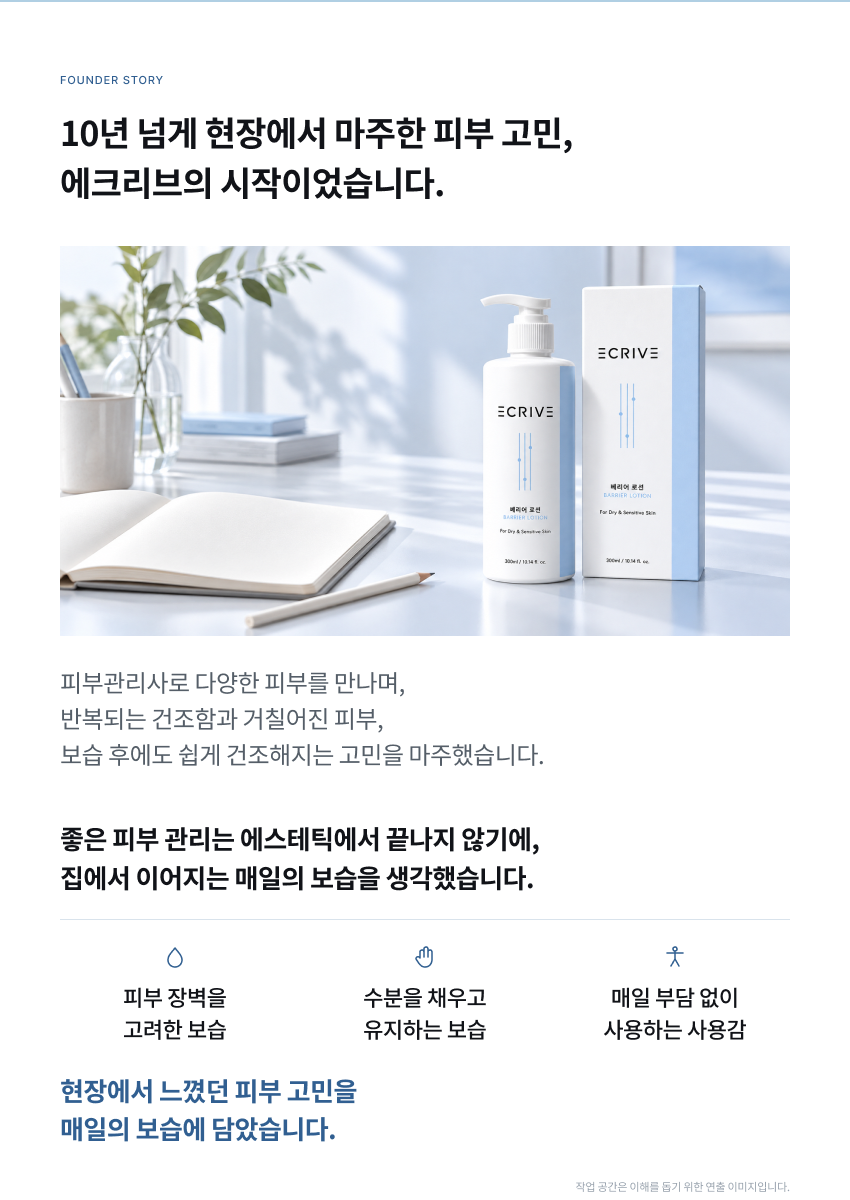
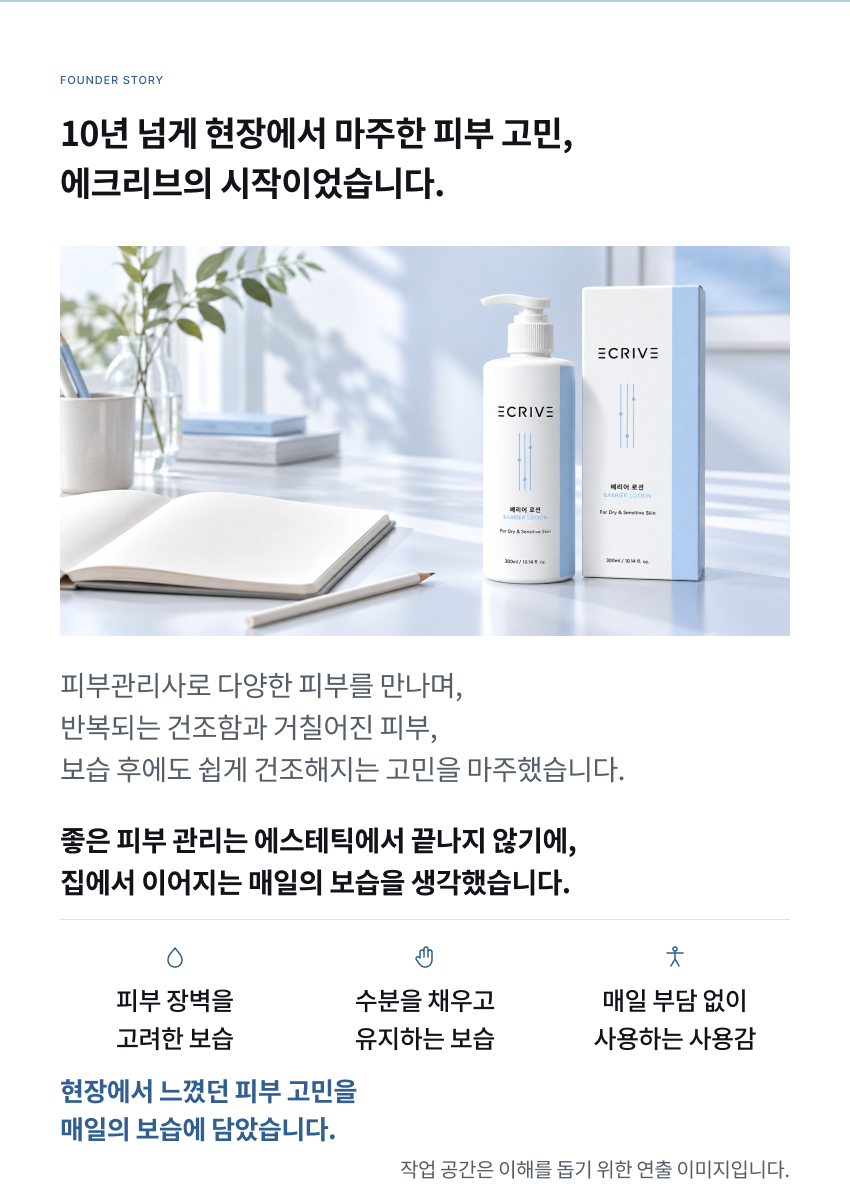
Polish ECRIVE detail pages and align mobile reading layout

diff --git a/resole-lotion-demo/index.html b/resole-lotion-demo/index.html
@@ -36,7 +36,7 @@
               <a href="product/radiance-body-mist.html" class="hero-link"><img src="assets/body-mist/shop/BANNER.png" alt="리솔90 레디언스 바디미스트 런칭 기념 배너" /></a>
             </article>
             <article class="hero-slide" data-slide aria-label="3 / 3">
-              <a href="product/barrier-lotion.html" class="hero-link"><img src="../banner/main-banner.png" alt="RESOLE 배리어 로션 메인 배너" /></a>
+              <a href="product/barrier-lotion.html" class="hero-link"><img src="../banner/main-banner.png" alt="RESOLE 베리어 로션 메인 배너" /></a>
             </article>
           </div>
         </div>
@@ -45,7 +45,7 @@
         <div class="carousel-dots" aria-label="배너 선택">
           <button type="button" class="active" data-slide-to="0" aria-label="크림 미스트 배너 보기" aria-current="true"></button>
           <button type="button" data-slide-to="1" aria-label="바디미스트 배너 보기"></button>
-          <button type="button" data-slide-to="2" aria-label="배리어 로션 배너 보기"></button>
+          <button type="button" data-slide-to="2" aria-label="베리어 로션 배너 보기"></button>
         </div>
       </div>
     </section>
@@ -54,8 +54,8 @@
       <div class="store-section-head"><div><p class="section-kicker">NEW ARRIVAL</p><h2>새롭게 만나는 RESOLE</h2></div><a href="#all">전체보기 <span>→</span></a></div>
       <div class="product-rail" aria-label="신상품 목록">
         <article class="product-card">
-          <a href="product/ecrive-barrier-lotion.html?v=20261022-r1" class="product-image-wrap"><span class="card-badge mist">NEW</span><img src="assets/ecrive-barrier-lotion/shop/01-copy-launch.jpg?v=20260928-r1" alt="ECRIVE 배리어 로션 300 mL" /></a>
-          <div class="product-card-body"><p class="product-brand">ECRIVE</p><a href="product/ecrive-barrier-lotion.html?v=20261022-r1" class="product-name">배리어 로션 300 mL</a><div class="product-price"><strong>34,900원</strong><del>39,000원</del></div><p class="product-meta">바르고 또 발라도, 반복되는 건조함을 위한 보습</p></div>
+          <a href="product/ecrive-barrier-lotion.html?v=20261022-r2" class="product-image-wrap"><span class="card-badge mist">NEW</span><img src="assets/ecrive-barrier-lotion/shop/01-copy-launch.jpg?v=20260928-r1" alt="ECRIVE 베리어 로션 300 mL" /></a>
+          <div class="product-card-body"><p class="product-brand">ECRIVE</p><a href="product/ecrive-barrier-lotion.html?v=20261022-r2" class="product-name">베리어 로션 300 mL</a><div class="product-price"><strong>34,900원</strong><del>39,000원</del></div><p class="product-meta">바르고 또 발라도, 반복되는 건조함을 위한 보습</p></div>
         </article>
         <article class="product-card">
           <a href="product/goyobam.html?v=20260908-r10" class="product-image-wrap"><span class="card-badge mist">NEW</span><img src="assets/goyobam/shop/thumb01.png?v=20260827-r1" alt="ROOTEDIT GOYOBAM 고요밤 150 ml" /></a>
@@ -70,8 +70,8 @@
           <div class="product-card-body"><p class="product-brand">RESOLE90</p><a href="product/radiance-body-mist.html" class="product-name">레디언스 바디미스트 100 mL</a><div class="product-availability"><strong>런칭 기념</strong><span>한정 혜택</span></div><p class="product-meta">건조함이 느껴지는 순간, 산뜻하게</p></div>
         </article>
         <article class="product-card">
-          <a href="product/barrier-lotion.html" class="product-image-wrap"><span class="card-badge">NEW</span><img src="../thumbs/thum01_00001_.png" alt="RESOLE 배리어 로션 300 mL" /></a>
-          <div class="product-card-body"><p class="product-brand">RESOLE</p><a href="product/barrier-lotion.html" class="product-name">배리어 로션 300 mL</a><div class="product-price"><strong>21,900원</strong><span>31%</span><del>31,900원</del></div><p class="product-meta">얼굴부터 건조한 곳까지 충분히</p></div>
+          <a href="product/barrier-lotion.html" class="product-image-wrap"><span class="card-badge">NEW</span><img src="../thumbs/thum01_00001_.png" alt="RESOLE 베리어 로션 300 mL" /></a>
+          <div class="product-card-body"><p class="product-brand">RESOLE</p><a href="product/barrier-lotion.html" class="product-name">베리어 로션 300 mL</a><div class="product-price"><strong>21,900원</strong><span>31%</span><del>31,900원</del></div><p class="product-meta">얼굴부터 건조한 곳까지 충분히</p></div>
         </article>
       </div>
     </section>
@@ -80,17 +80,17 @@
 
     <section id="best" class="store-section store-shell">
       <div class="store-section-head"><div><p class="section-kicker">BEST</p><h2>지금 가장 주목받는 제품</h2></div></div>
-      <div class="product-rail"><article class="product-card"><a href="product/barrier-lotion.html" class="product-image-wrap"><span class="card-badge soft">BEST</span><img src="../thumbs/thum02_00001_.png" alt="RESOLE 배리어 로션 300 mL" /></a><div class="product-card-body"><p class="product-brand">RESOLE</p><a href="product/barrier-lotion.html" class="product-name">배리어 로션 300 mL</a><div class="product-price"><strong>21,900원</strong><span>31%</span><del>31,900원</del></div></div></article></div>
+      <div class="product-rail"><article class="product-card"><a href="product/barrier-lotion.html" class="product-image-wrap"><span class="card-badge soft">BEST</span><img src="../thumbs/thum02_00001_.png" alt="RESOLE 베리어 로션 300 mL" /></a><div class="product-card-body"><p class="product-brand">RESOLE</p><a href="product/barrier-lotion.html" class="product-name">베리어 로션 300 mL</a><div class="product-price"><strong>21,900원</strong><span>31%</span><del>31,900원</del></div></div></article></div>
     </section>
 
     <section id="all" class="store-section store-shell compact-bottom">
       <div class="store-section-head"><div><p class="section-kicker">ALL PRODUCTS</p><h2>전체 상품</h2></div></div>
       <div class="all-product-grid">
-        <article class="product-card"><a href="product/ecrive-barrier-lotion.html?v=20261022-r1" class="product-image-wrap"><img src="assets/ecrive-barrier-lotion/shop/06-image-main.jpg?v=20260928-r1" alt="ECRIVE 배리어 로션 300 mL" /></a><div class="product-card-body"><p class="product-brand">ECRIVE</p><a href="product/ecrive-barrier-lotion.html?v=20261022-r1" class="product-name">배리어 로션 300 mL</a><div class="product-price"><strong>34,900원</strong><del>39,000원</del></div></div></article>
+        <article class="product-card"><a href="product/ecrive-barrier-lotion.html?v=20261022-r2" class="product-image-wrap"><img src="assets/ecrive-barrier-lotion/shop/06-image-main.jpg?v=20260928-r1" alt="ECRIVE 베리어 로션 300 mL" /></a><div class="product-card-body"><p class="product-brand">ECRIVE</p><a href="product/ecrive-barrier-lotion.html?v=20261022-r2" class="product-name">베리어 로션 300 mL</a><div class="product-price"><strong>34,900원</strong><del>39,000원</del></div></div></article>
         <article class="product-card"><a href="product/goyobam.html?v=20260908-r10" class="product-image-wrap"><img src="assets/goyobam/shop/thumb06.png?v=20260827-r1" alt="ROOTEDIT GOYOBAM 고요밤 150 ml" /></a><div class="product-card-body"><p class="product-brand">ROOTEDIT</p><a href="product/goyobam.html?v=20260908-r10" class="product-name">GOYOBAM 고요밤 150 ml</a><div class="product-availability"><strong>PORTFOLIO</strong><span>상세 보기</span></div></div></article>
         <article class="product-card"><a href="product/cream-mist.html" class="product-image-wrap"><img src="assets/cream-mist/shop/thumb05.jpg" alt="RESOLE 크림 미스트 80 mL" /></a><div class="product-card-body"><p class="product-brand">RESOLE</p><a href="product/cream-mist.html" class="product-name">크림 미스트 80 mL</a><div class="product-price"><strong>23,000원</strong><span>30%</span></div></div></article>
         <article class="product-card"><a href="product/radiance-body-mist.html" class="product-image-wrap"><img src="assets/body-mist/shop/S-06_thumb.png" alt="리솔90 레디언스 바디미스트 100 mL" /></a><div class="product-card-body"><p class="product-brand">RESOLE90</p><a href="product/radiance-body-mist.html" class="product-name">레디언스 바디미스트 100 mL</a><div class="product-availability"><strong>런칭 기념</strong><span>혜택 확인</span></div></div></article>
-        <article class="product-card"><a href="product/barrier-lotion.html" class="product-image-wrap"><img src="../thumbs/thum03_00001_.png" alt="RESOLE 배리어 로션 300 mL" /></a><div class="product-card-body"><p class="product-brand">RESOLE</p><a href="product/barrier-lotion.html" class="product-name">배리어 로션 300 mL</a><div class="product-price"><strong>21,900원</strong><span>31%</span><del>31,900원</del></div></div></article>
+        <article class="product-card"><a href="product/barrier-lotion.html" class="product-image-wrap"><img src="../thumbs/thum03_00001_.png" alt="RESOLE 베리어 로션 300 mL" /></a><div class="product-card-body"><p class="product-brand">RESOLE</p><a href="product/barrier-lotion.html" class="product-name">베리어 로션 300 mL</a><div class="product-price"><strong>21,900원</strong><span>31%</span><del>31,900원</del></div></div></article>
       </div>
     </section>
   </main>

diff --git a/resole-lotion-demo/product/ecrive-barrier-lotion.html b/resole-lotion-demo/product/ecrive-barrier-lotion.html
@@ -3,8 +3,8 @@
 <head>
   <meta charset="UTF-8" />
   <meta name="viewport" content="width=device-width, initial-scale=1.0" />
-  <title>ECRIVE | 배리어 로션 300 mL</title>
-  <meta name="description" content="ECRIVE 배리어 로션 300 mL 포트폴리오 상세페이지" />
+  <title>ECRIVE | 베리어 로션 300 mL</title>
+  <meta name="description" content="ECRIVE 베리어 로션 300 mL 포트폴리오 상세페이지" />
   <link rel="preconnect" href="https://fonts.googleapis.com">
   <link rel="preconnect" href="https://fonts.gstatic.com" crossorigin>
   <link href="https://fonts.googleapis.com/css2?family=Noto+Sans+KR:wght@400;500;600;700;800&display=swap" rel="stylesheet">
@@ -29,10 +29,10 @@
   <div class="notice-bar">RESOLE DESIGN · PORTFOLIO DEMO</div>
   <header class="store-header"><div class="store-shell header-row"><a class="store-logo" href="../">RESOLE</a><nav class="store-nav"><a href="../#new">NEW</a><a href="../#best">BEST</a><a href="../#all">ALL</a><a href="../#about">ABOUT</a></nav><div class="header-actions"><button type="button" aria-label="검색">⌕</button><button type="button" aria-label="포트폴리오">VIEW</button></div></div></header>
   <main>
-    <div class="breadcrumb store-shell"><a href="../">HOME</a><span>/</span><span>ECRIVE 배리어 로션 300 mL</span></div>
+    <div class="breadcrumb store-shell"><a href="../">HOME</a><span>/</span><span>ECRIVE 베리어 로션 300 mL</span></div>
     <section class="product store-shell">
       <div class="gallery-panel">
-        <div class="gallery-main"><img id="mainImage" src="../assets/ecrive-barrier-lotion/shop/01-copy-launch.jpg?v=20260928-r1" alt="ECRIVE 배리어 로션 런칭 이미지" /></div>
+        <div class="gallery-main"><img id="mainImage" src="../assets/ecrive-barrier-lotion/shop/01-copy-launch.jpg?v=20260928-r1" alt="ECRIVE 베리어 로션 런칭 이미지" /></div>
         <div class="thumb-strip" id="thumbStrip" aria-label="제품 이미지 선택">
           <button class="thumb active" type="button" data-image="../assets/ecrive-barrier-lotion/shop/01-copy-launch.jpg?v=20260928-r1"><img src="../assets/ecrive-barrier-lotion/shop/01-copy-launch.jpg?v=20260928-r1" alt="ECRIVE 제품 이미지 1"></button>
           <button class="thumb" type="button" data-image="../assets/ecrive-barrier-lotion/shop/02-copy-facebody.jpg?v=20260928-r1"><img src="../assets/ecrive-barrier-lotion/shop/02-copy-facebody.jpg?v=20260928-r1" alt="ECRIVE 제품 이미지 2"></button>
@@ -53,7 +53,7 @@
       </div>
       <aside class="purchase-panel">
         <p class="eyebrow">ECRIVE · BARRIER CARE</p>
-        <h1>배리어 로션 300 mL</h1>
+        <h1>베리어 로션 300 mL</h1>
         <p class="sub-title">For Dry &amp; Sensitive Skin</p>
         <div class="rating-row"><span>FACE &amp; BODY</span></div>
         <div class="price-box"><div class="event-chip">런칭 이벤트</div><div class="price-line"><span class="sale-price">34,900원</span></div><del class="origin">39,000원</del></div>
@@ -64,22 +64,22 @@
     </section>
     <nav class="detail-tabs store-shell"><a class="active" href="#detail">상세페이지</a><a href="#info">프로젝트 정보</a><a href="#faq">안내</a></nav>
     <section id="detail" class="detail ecrive-detail"><div class="detail-stack">
-<img class="detail-image" src="../assets/ecrive-barrier-lotion/detail/p01.png?v=20261022-r1" alt="ECRIVE 상세페이지 1" width="850" height="1200" loading="lazy" />
-<img class="detail-image" src="../assets/ecrive-barrier-lotion/detail/p02.png?v=20261022-r1" alt="ECRIVE 상세페이지 2" width="850" height="1200" loading="lazy" />
-<img class="detail-image" src="../assets/ecrive-barrier-lotion/detail/p03.png?v=20261022-r1" alt="ECRIVE 상세페이지 3" width="850" height="1450" loading="lazy" />
-<img class="detail-image" src="../assets/ecrive-barrier-lotion/detail/p04.png?v=20261022-r1" alt="ECRIVE 상세페이지 4" width="850" height="1200" loading="lazy" />
-<img class="detail-image" src="../assets/ecrive-barrier-lotion/detail/p05.png?v=20261022-r1" alt="ECRIVE 상세페이지 5" width="850" height="1200" loading="lazy" />
-<img class="detail-image" src="../assets/ecrive-barrier-lotion/detail/p06.png?v=20261022-r1" alt="ECRIVE 상세페이지 6" width="850" height="1950" loading="lazy" />
-<img class="detail-image" src="../assets/ecrive-barrier-lotion/detail/p07.png?v=20261022-r1" alt="ECRIVE 상세페이지 7" width="850" height="1200" loading="lazy" />
-<div class="ecrive-motion"><img class="detail-image" src="../assets/ecrive-barrier-lotion/detail/p08.png?v=20261022-r1" alt="ECRIVE 상세페이지 8" width="850" height="1200" loading="lazy" />
+<img class="detail-image" src="../assets/ecrive-barrier-lotion/detail/p01.png?v=20261022-r2" alt="ECRIVE 상세페이지 1" width="850" height="1200" loading="lazy" />
+<img class="detail-image" src="../assets/ecrive-barrier-lotion/detail/p02.png?v=20261022-r2" alt="ECRIVE 상세페이지 2" width="850" height="1200" loading="lazy" />
+<img class="detail-image" src="../assets/ecrive-barrier-lotion/detail/p03.png?v=20261022-r2" alt="ECRIVE 상세페이지 3" width="850" height="1450" loading="lazy" />
+<img class="detail-image" src="../assets/ecrive-barrier-lotion/detail/p04.png?v=20261022-r2" alt="ECRIVE 상세페이지 4" width="850" height="1200" loading="lazy" />
+<img class="detail-image" src="../assets/ecrive-barrier-lotion/detail/p05.png?v=20261022-r2" alt="ECRIVE 상세페이지 5" width="850" height="1200" loading="lazy" />
+<img class="detail-image" src="../assets/ecrive-barrier-lotion/detail/p06.png?v=20261022-r2" alt="ECRIVE 상세페이지 6" width="850" height="2010" loading="lazy" />
+<img class="detail-image" src="../assets/ecrive-barrier-lotion/detail/p07.png?v=20261022-r2" alt="ECRIVE 상세페이지 7" width="850" height="1200" loading="lazy" />
+<div class="ecrive-motion"><img class="detail-image" src="../assets/ecrive-barrier-lotion/detail/p08.png?v=20261022-r2" alt="ECRIVE 상세페이지 8" width="850" height="1200" loading="lazy" />
 <div class="motion-tile" style="left:7.05882353%;top:20.91666667%;width:42.00000000%;height:20.83333333%"><video autoplay loop muted playsinline controls preload="metadata" aria-label="01 PUMP 로션 사용 영상"><source src="../assets/ecrive-barrier-lotion/video/01pump.mp4?v=20260930-r1" type="video/mp4"></video><span class="motion-label">01 PUMP</span></div>
 <div class="motion-tile" style="left:50.94117647%;top:20.91666667%;width:42.00000000%;height:20.83333333%"><video autoplay loop muted playsinline controls preload="metadata" aria-label="02 ARM 로션 사용 영상"><source src="../assets/ecrive-barrier-lotion/video/02arm.mp4?v=20260930-r1" type="video/mp4"></video><span class="motion-label">02 ARM</span></div>
 <div class="motion-tile" style="left:7.05882353%;top:43.08333333%;width:42.00000000%;height:20.83333333%"><video autoplay loop muted playsinline controls preload="metadata" aria-label="03 LEG 로션 사용 영상"><source src="../assets/ecrive-barrier-lotion/video/03leg.mp4?v=20260930-r1" type="video/mp4"></video><span class="motion-label">03 LEG</span></div>
 <div class="motion-tile" style="left:50.94117647%;top:43.08333333%;width:42.00000000%;height:20.83333333%"><video autoplay loop muted playsinline controls preload="metadata" aria-label="04 ELBOW 로션 사용 영상"><source src="../assets/ecrive-barrier-lotion/video/04elbow.mp4?v=20260930-r1" type="video/mp4"></video><span class="motion-label">04 ELBOW</span></div></div>
-<img class="detail-image" src="../assets/ecrive-barrier-lotion/detail/p09.png?v=20261022-r1" alt="ECRIVE 상세페이지 9" width="850" height="1200" loading="lazy" />
-<img class="detail-image" src="../assets/ecrive-barrier-lotion/detail/p10.png?v=20261022-r1" alt="ECRIVE 상세페이지 10" width="850" height="3980" loading="lazy" />
+<img class="detail-image" src="../assets/ecrive-barrier-lotion/detail/p09.png?v=20261022-r2" alt="ECRIVE 상세페이지 9" width="850" height="1200" loading="lazy" />
+<img class="detail-image" src="../assets/ecrive-barrier-lotion/detail/p10.png?v=20261022-r2" alt="ECRIVE 상세페이지 10" width="850" height="4266" loading="lazy" />
 </div></section>
-    <section id="info" class="info-section store-shell detail-narrow"><h2>프로젝트 정보</h2><div class="info-grid"><div><span>브랜드</span><strong>ECRIVE</strong></div><div><span>제품명</span><strong>배리어 로션</strong></div><div><span>용량</span><strong>300 mL / 10.14 fl. oz.</strong></div></div></section>
+    <section id="info" class="info-section store-shell detail-narrow"><h2>프로젝트 정보</h2><div class="info-grid"><div><span>브랜드</span><strong>ECRIVE</strong></div><div><span>제품명</span><strong>베리어 로션</strong></div><div><span>용량</span><strong>300 mL / 10.14 fl. oz.</strong></div></div></section>
     <section id="faq" class="faq store-shell detail-narrow"><h2>안내</h2><details open><summary>이 페이지는 실제 판매 페이지인가요?</summary><p>본 페이지는 상세페이지 디자인 포트폴리오 시안이며 실제 결제는 제공되지 않습니다.</p></details></section>
   </main>
   <div class="mobile-buybar"><div><strong>34,900원</strong><span>런칭가 · 무료배송</span></div><a class="btn btn-primary" href="#detail">상세 보기</a></div>
